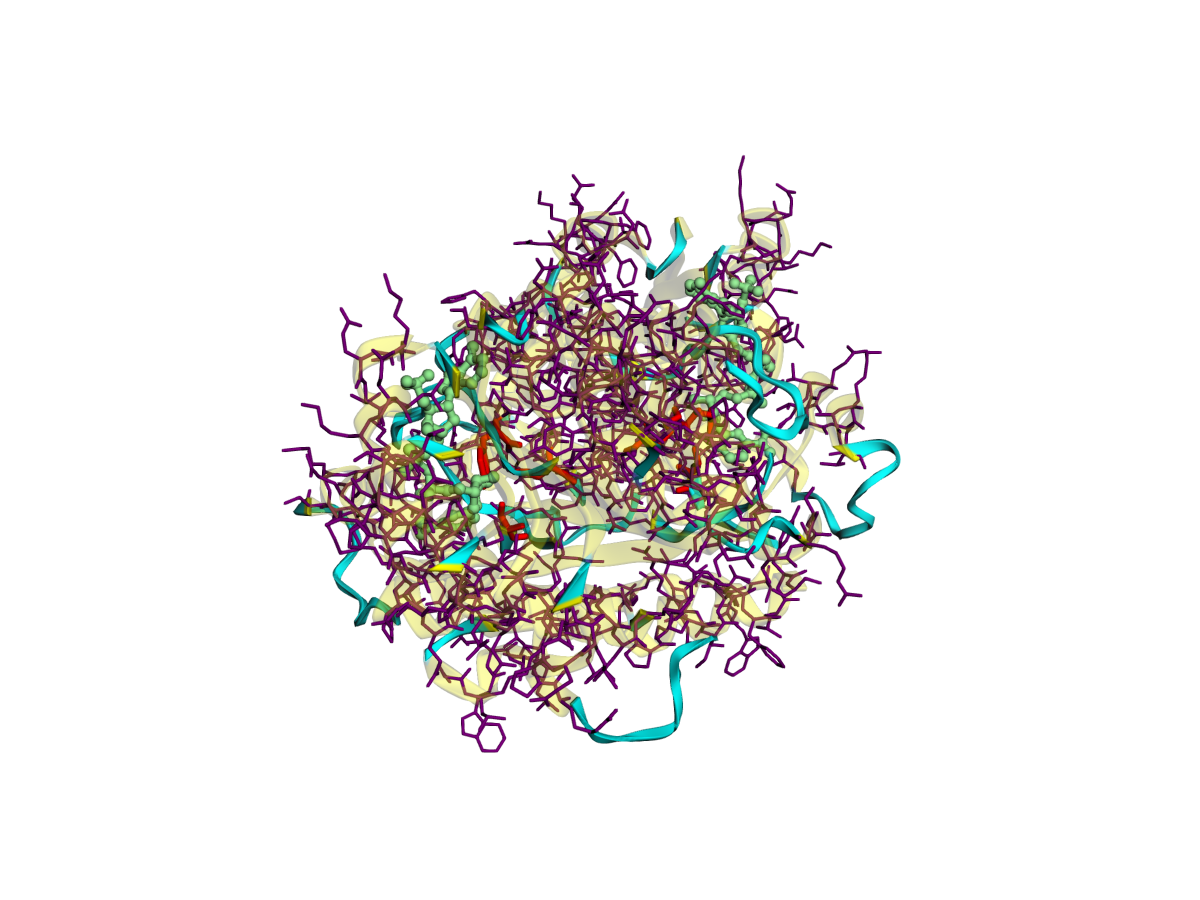
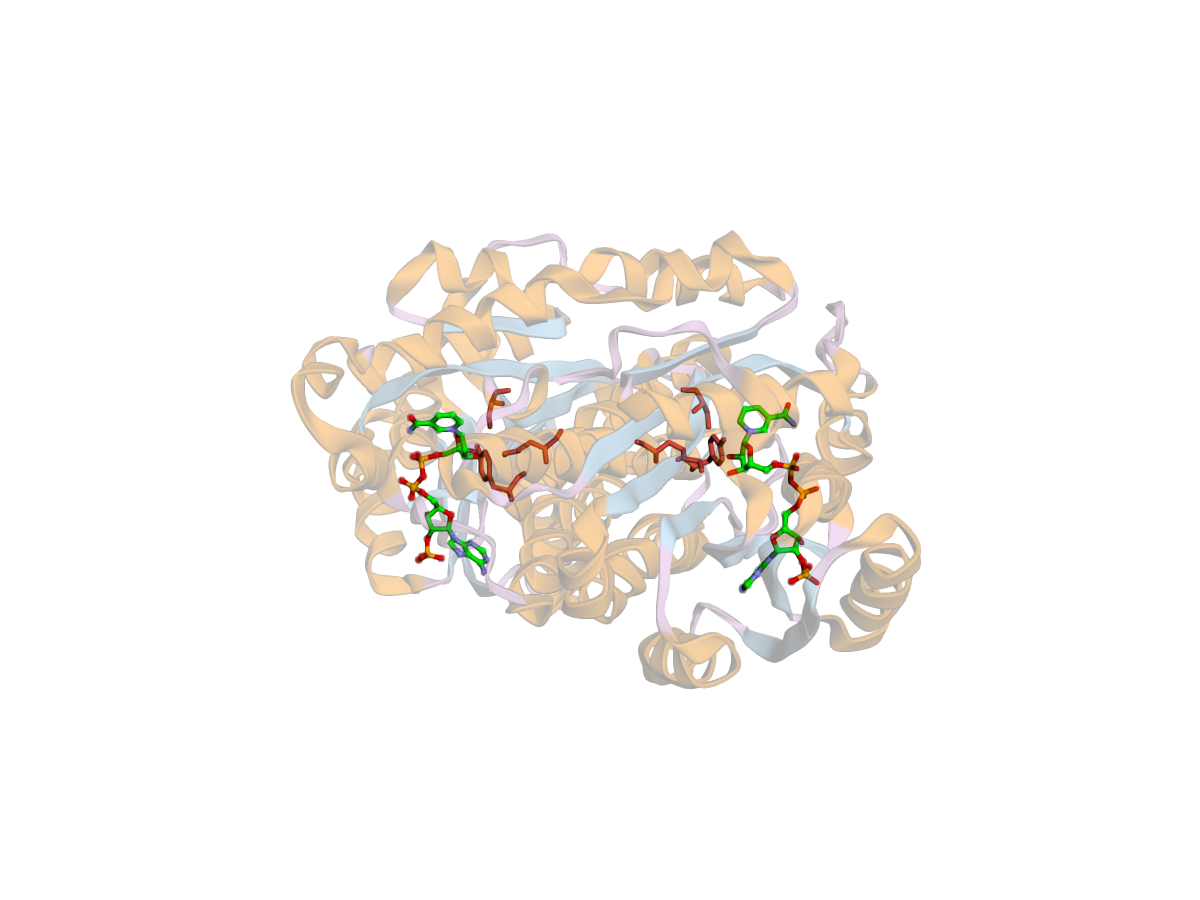
Improve 11β-HSD1 enzyme visualization with Wikipedia-like style and animation
- Refactored `src/render_protein.py` to generate high-quality dimer visualizations (PDB 1XU7).
- Applied professional styling with transparent orange helices, light blue sheets, and plum coils.
- Highlighted the catalytic triad (red), NDP cofactor (green), and BVT ligand (magenta) to demonstrate molecular interactions.
- Added support for 360-degree rotating GIF animations of the enzyme.
- Integrated the new static and animated assets into Markdown and LaTeX report templates for both English and German.

Changed region(s): [[0.2467, 0.1867, 0.7708, 0.84]]

diff --git a/src/render_protein.py b/src/render_protein.py
@@ -2,9 +2,12 @@ import os
 import asyncio
 import urllib.request
 from playwright.async_api import async_playwright
+from PIL import Image
 
-def download_and_filter_pdb(pdb_id, excluded_chains):
+def download_and_filter_pdb(pdb_id, excluded_chains=None):
     """Downloads PDB data and filters out specified chains."""
+    if excluded_chains is None:
+        excluded_chains = []
     url = f"https://files.rcsb.org/download/{pdb_id}.pdb"
     try:
         with urllib.request.urlopen(url) as response:
@@ -12,6 +15,9 @@ def download_and_filter_pdb(pdb_id, excluded_chains):
     except Exception as e:
         print(f"Error downloading PDB {pdb_id}: {e}")
         return None
+
+    if not excluded_chains:
+        return pdb_data
 
     filtered_lines = []
     for line in pdb_data.splitlines():
@@ -24,16 +30,43 @@ def download_and_filter_pdb(pdb_id, excluded_chains):
 
     return "\n".join(filtered_lines)
 
-async def render_enzyme(pdb_id, output_path):
-    """Generates a 3D PNG image of the filtered enzyme."""
+def get_3dmol_style_js():
+    """Returns the JavaScript styling code for 3Dmol.js to ensure consistency."""
+    return """
+        // Professional styling: Light colors and transparency
+        let styleHelix = { cartoon: { color: '#FF8C00', opacity: 0.6 } }; // DarkOrange
+        let styleSheet = { cartoon: { color: '#87CEFA', opacity: 0.6 } }; // LightSkyBlue
+        let styleCoil  = { cartoon: { color: '#DDA0DD', opacity: 0.6 } }; // Plum
 
-    # Filter out chains A and B (Lower Half)
-    pdb_content = download_and_filter_pdb(pdb_id, ['A', 'B'])
+        viewer.setStyle({ss: 'h'}, styleHelix);
+        viewer.setStyle({ss: 's'}, styleSheet);
+        viewer.setStyle({ss: 'c'}, styleCoil);
+
+        // Highlight the cofactor (NDP)
+        viewer.addStyle({ resn: 'NDP' },
+                       { stick: { colorscheme: 'greenCarbon', radius: 0.25 },
+                         sphere: { colorscheme: 'greenCarbon', radius: 0.4, opacity: 0.8 } });
+
+        // Highlight the steroid-like ligand (BVT) to show interaction
+        viewer.addStyle({ resn: 'BVT' },
+                       { stick: { colorscheme: 'magentaCarbon', radius: 0.3 },
+                         sphere: { colorscheme: 'magentaCarbon', radius: 0.5 } });
+
+        // Highlight catalytic triad (Ser170, Tyr183, Lys187)
+        viewer.addStyle({ resi: [170, 183, 187] },
+                       { stick: { color: '#E74C3C', radius: 0.25 } });
+
+        viewer.zoomTo();
+    """
+
+async def render_enzyme(pdb_id, output_path):
+    """Generates a high-quality 3D PNG image of the 11b-HSD1 enzyme dimer."""
+    pdb_content = download_and_filter_pdb(pdb_id, excluded_chains=['C', 'D'])
     if not pdb_content:
         return False
 
-    # Escape backticks and other characters for JavaScript string
     pdb_content_js = pdb_content.replace("\\", "\\\\").replace("`", "\\`").replace("$", "\\$")
+    style_js = get_3dmol_style_js()
 
     html_content = f"""
     <html>
@@ -50,28 +83,8 @@ async def render_enzyme(pdb_id, output_path):
             let pdbData = `{pdb_content_js}`;
             viewer.addModel(pdbData, "pdb");
 
-            // Base style: Loops/Coils as cyan cartoon
-            viewer.setStyle({{chain: ['C', 'D']}}, {{ cartoon: {{ color: 'cyan', radius: 0.3 }} }});
+            {style_js}
 
-            // Alpha Helices: yellow cartoon (semi-transparent)
-            viewer.addStyle({{chain: ['C', 'D'], ss: 'h'}}, {{ cartoon: {{ color: 'yellow', opacity: 0.6 }} }});
-
-            // Beta Sheets: yellow cartoon (semi-transparent)
-            viewer.addStyle({{chain: ['C', 'D'], ss: 's'}}, {{ cartoon: {{ color: 'yellow', opacity: 0.6, width: 1.2, thickness: 0.6 }} }});
-
-            // Helical sidechains: purple sticks (semi-transparent)
-            viewer.addStyle({{chain: ['C', 'D'], ss: 'h'}}, {{ stick: {{ color: 'purple', radius: 0.15, opacity: 0.4 }} }});
-
-            // Sulfur atoms: yellow spheres
-            viewer.addStyle({{element: 'S'}}, {{ sphere: {{ color: 'yellow', radius: 0.3 }} }});
-
-            // Ligand (NDP): light green ball-and-stick
-            viewer.addStyle({{ resn: 'NDP' }}, {{ stick: {{ color: 'lightgreen', radius: 0.35 }}, sphere: {{ color: 'lightgreen', radius: 0.55 }} }});
-
-            // Catalytic residues (Ser170, Tyr183, Lys187): red sticks
-            viewer.addStyle({{ resi: [170, 183, 187], resn: ['SER', 'TYR', 'LYS'] }}, {{ stick: {{ color: 'red', radius: 0.3 }} }});
-
-            viewer.zoomTo();
             viewer.render();
             window.renderComplete = true;
         </script>
@@ -90,9 +103,90 @@ async def render_enzyme(pdb_id, output_path):
         await page.goto(f"file://{os.path.abspath(temp_html)}")
 
         await page.wait_for_function("window.renderComplete === true", timeout=60000)
-
         await page.locator("#container").screenshot(path=output_path)
         await browser.close()
+
+    if os.path.exists(temp_html):
+        os.remove(temp_html)
+
+    return True
+
+async def render_enzyme_animation(pdb_id, output_path, num_frames=24):
+    """Generates an animated GIF of the rotating 11b-HSD1 enzyme dimer."""
+    pdb_content = download_and_filter_pdb(pdb_id, excluded_chains=['C', 'D'])
+    if not pdb_content:
+        return False
+
+    pdb_content_js = pdb_content.replace("\\", "\\\\").replace("`", "\\`").replace("$", "\\$")
+    style_js = get_3dmol_style_js()
+
+    html_content = f"""
+    <html>
+    <head>
+        <script src="https://cdnjs.cloudflare.com/ajax/libs/3Dmol/2.4.2/3Dmol-min.js"></script>
+    </head>
+    <body>
+        <div id="container" style="width: 800px; height: 600px; position: relative;"></div>
+        <script>
+            let element = document.getElementById('container');
+            let config = {{ backgroundColor: 'white' }};
+            let viewer = $3Dmol.createViewer(element, config);
+
+            let pdbData = `{pdb_content_js}`;
+            viewer.addModel(pdbData, "pdb");
+
+            {style_js}
+
+            viewer.render();
+
+            window.rotateAndRender = function(angle) {{
+                viewer.rotate(angle, 'y');
+                viewer.render();
+            }};
+
+            window.renderComplete = true;
+        </script>
+    </body>
+    </html>
+    """
+
+    temp_html = "temp_anim_protein.html"
+    with open(temp_html, "w") as f:
+        f.write(html_content)
+
+    frames = []
+    async with async_playwright() as p:
+        browser = await p.chromium.launch()
+        page = await browser.new_page()
+        await page.set_viewport_size({"width": 800, "height": 600})
+        await page.goto(f"file://{os.path.abspath(temp_html)}")
+        await page.wait_for_function("window.renderComplete === true")
+
+        angle_step = 360 / num_frames
+        for i in range(num_frames):
+            frame_path = f"temp_protein_frame_{i}.png"
+            await page.evaluate(f"window.rotateAndRender({angle_step})")
+            await page.locator("#container").screenshot(path=frame_path)
+            frames.append(Image.open(frame_path))
+
+        await browser.close()
+
+    if frames:
+        frames[0].save(
+            output_path,
+            save_all=True,
+            append_images=frames[1:],
+            duration=80,
+            loop=0
+        )
+        for img in frames:
+            img.close()
+
+    # Cleanup
+    for i in range(num_frames):
+        frame_path = f"temp_protein_frame_{i}.png"
+        if os.path.exists(frame_path):
+            os.remove(frame_path)
 
     if os.path.exists(temp_html):
         os.remove(temp_html)
@@ -102,8 +196,14 @@ async def render_enzyme(pdb_id, output_path):
 if __name__ == "__main__":
     output_dir = 'output/images'
     os.makedirs(output_dir, exist_ok=True)
-    path_enzyme = os.path.join(output_dir, "enzyme_11bhsd1.png")
 
-    print(f"Rendering filtered enzyme 1XU7 to {path_enzyme}...")
+    path_enzyme = os.path.join(output_dir, "enzyme_11bhsd1.png")
+    path_anim = os.path.join(output_dir, "enzyme_11bhsd1_animation.gif")
+
+    print(f"Rendering refined enzyme visualization (1XU7 dimer with BVT ligand) to {path_enzyme}...")
     asyncio.run(render_enzyme("1XU7", path_enzyme))
+
+    print(f"Rendering refined enzyme animation to {path_anim}...")
+    asyncio.run(render_enzyme_animation("1XU7", path_anim))
+
     print("Done.")

diff --git a/src/templates/report_template.tex b/src/templates/report_template.tex
@@ -92,6 +92,12 @@
 
 {{ORGANS_CONTENT}}
 
+\begin{figure}[h]
+    \centering
+    \includegraphics[width=0.8\textwidth]{output/images/enzyme_11bhsd1.png}
+    \caption{11β-HSD1 Enzyme Visualization (Dimer of PDB: 1XU7). For an animated 3D version, please refer to the Markdown version of this report.}
+\end{figure}
+
 {{APPENDIX_CONTENT}}
 
 \end{document}

diff --git a/src/templates/report_template_de.tex b/src/templates/report_template_de.tex
@@ -92,6 +92,12 @@
 
 {{ORGANS_CONTENT}}
 
+\begin{figure}[h]
+    \centering
+    \includegraphics[width=0.8\textwidth]{output/images/enzyme_11bhsd1.png}
+    \caption{11β-HSD1-Enzymvisualisierung (Dimer von PDB: 1XU7). Eine animierte 3D-Version finden Sie in der Markdown-Version dieses Berichts.}
+\end{figure}
+
 {{APPENDIX_CONTENT}}
 
 \end{document}

diff --git a/src/templates/report_template.md b/src/templates/report_template.md
@@ -50,6 +50,12 @@
 
 {{ORGANS_CONTENT}}
 
+### 11β-HSD1 Enzyme Visualization (Dimer of PDB: 1XU7)
+![11β-HSD1 Enzyme](output/images/enzyme_11bhsd1.png)
+
+#### 3D Enzyme Animation (Rotating Dimer)
+![11β-HSD1 Enzyme Animation](output/images/enzyme_11bhsd1_animation.gif)
+
 ---
 
 {{APPENDIX_CONTENT}}

diff --git a/src/templates/report_template_de.md b/src/templates/report_template_de.md
@@ -50,6 +50,12 @@
 
 {{ORGANS_CONTENT}}
 
+### 11β-HSD1 Enzymvisualisierung (Dimer von PDB: 1XU7)
+![11β-HSD1 Enzym](output/images/enzyme_11bhsd1.png)
+
+#### 3D-Enzym-Animation (rotierendes Dimer)
+![11β-HSD1 Enzym Animation](output/images/enzyme_11bhsd1_animation.gif)
+
 ---
 
 {{APPENDIX_CONTENT}}